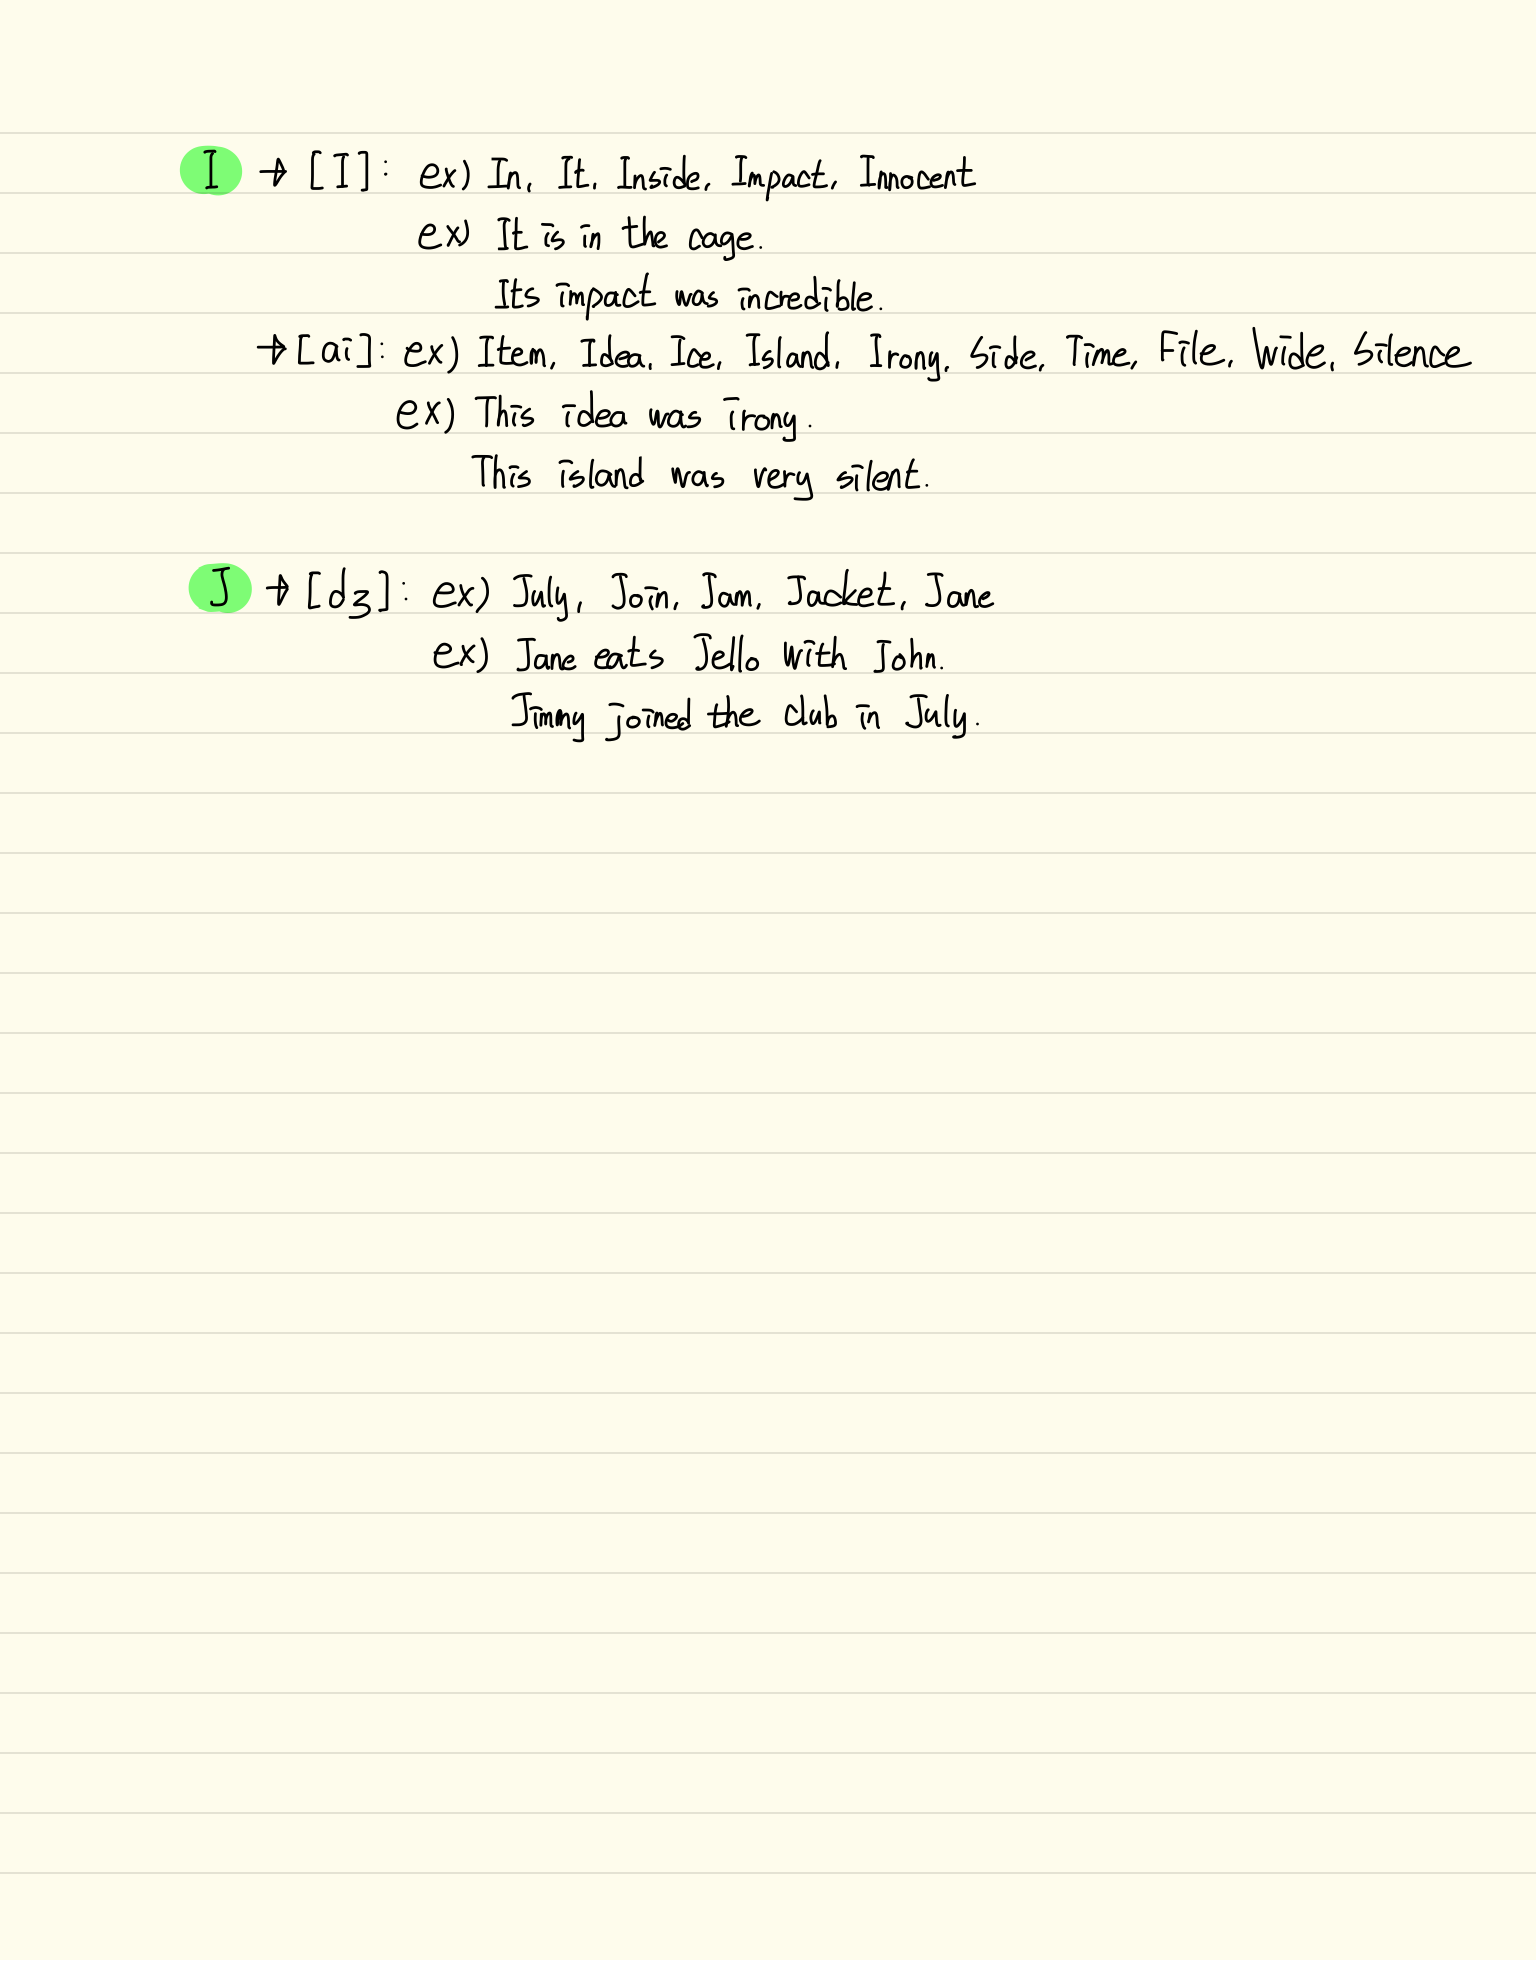
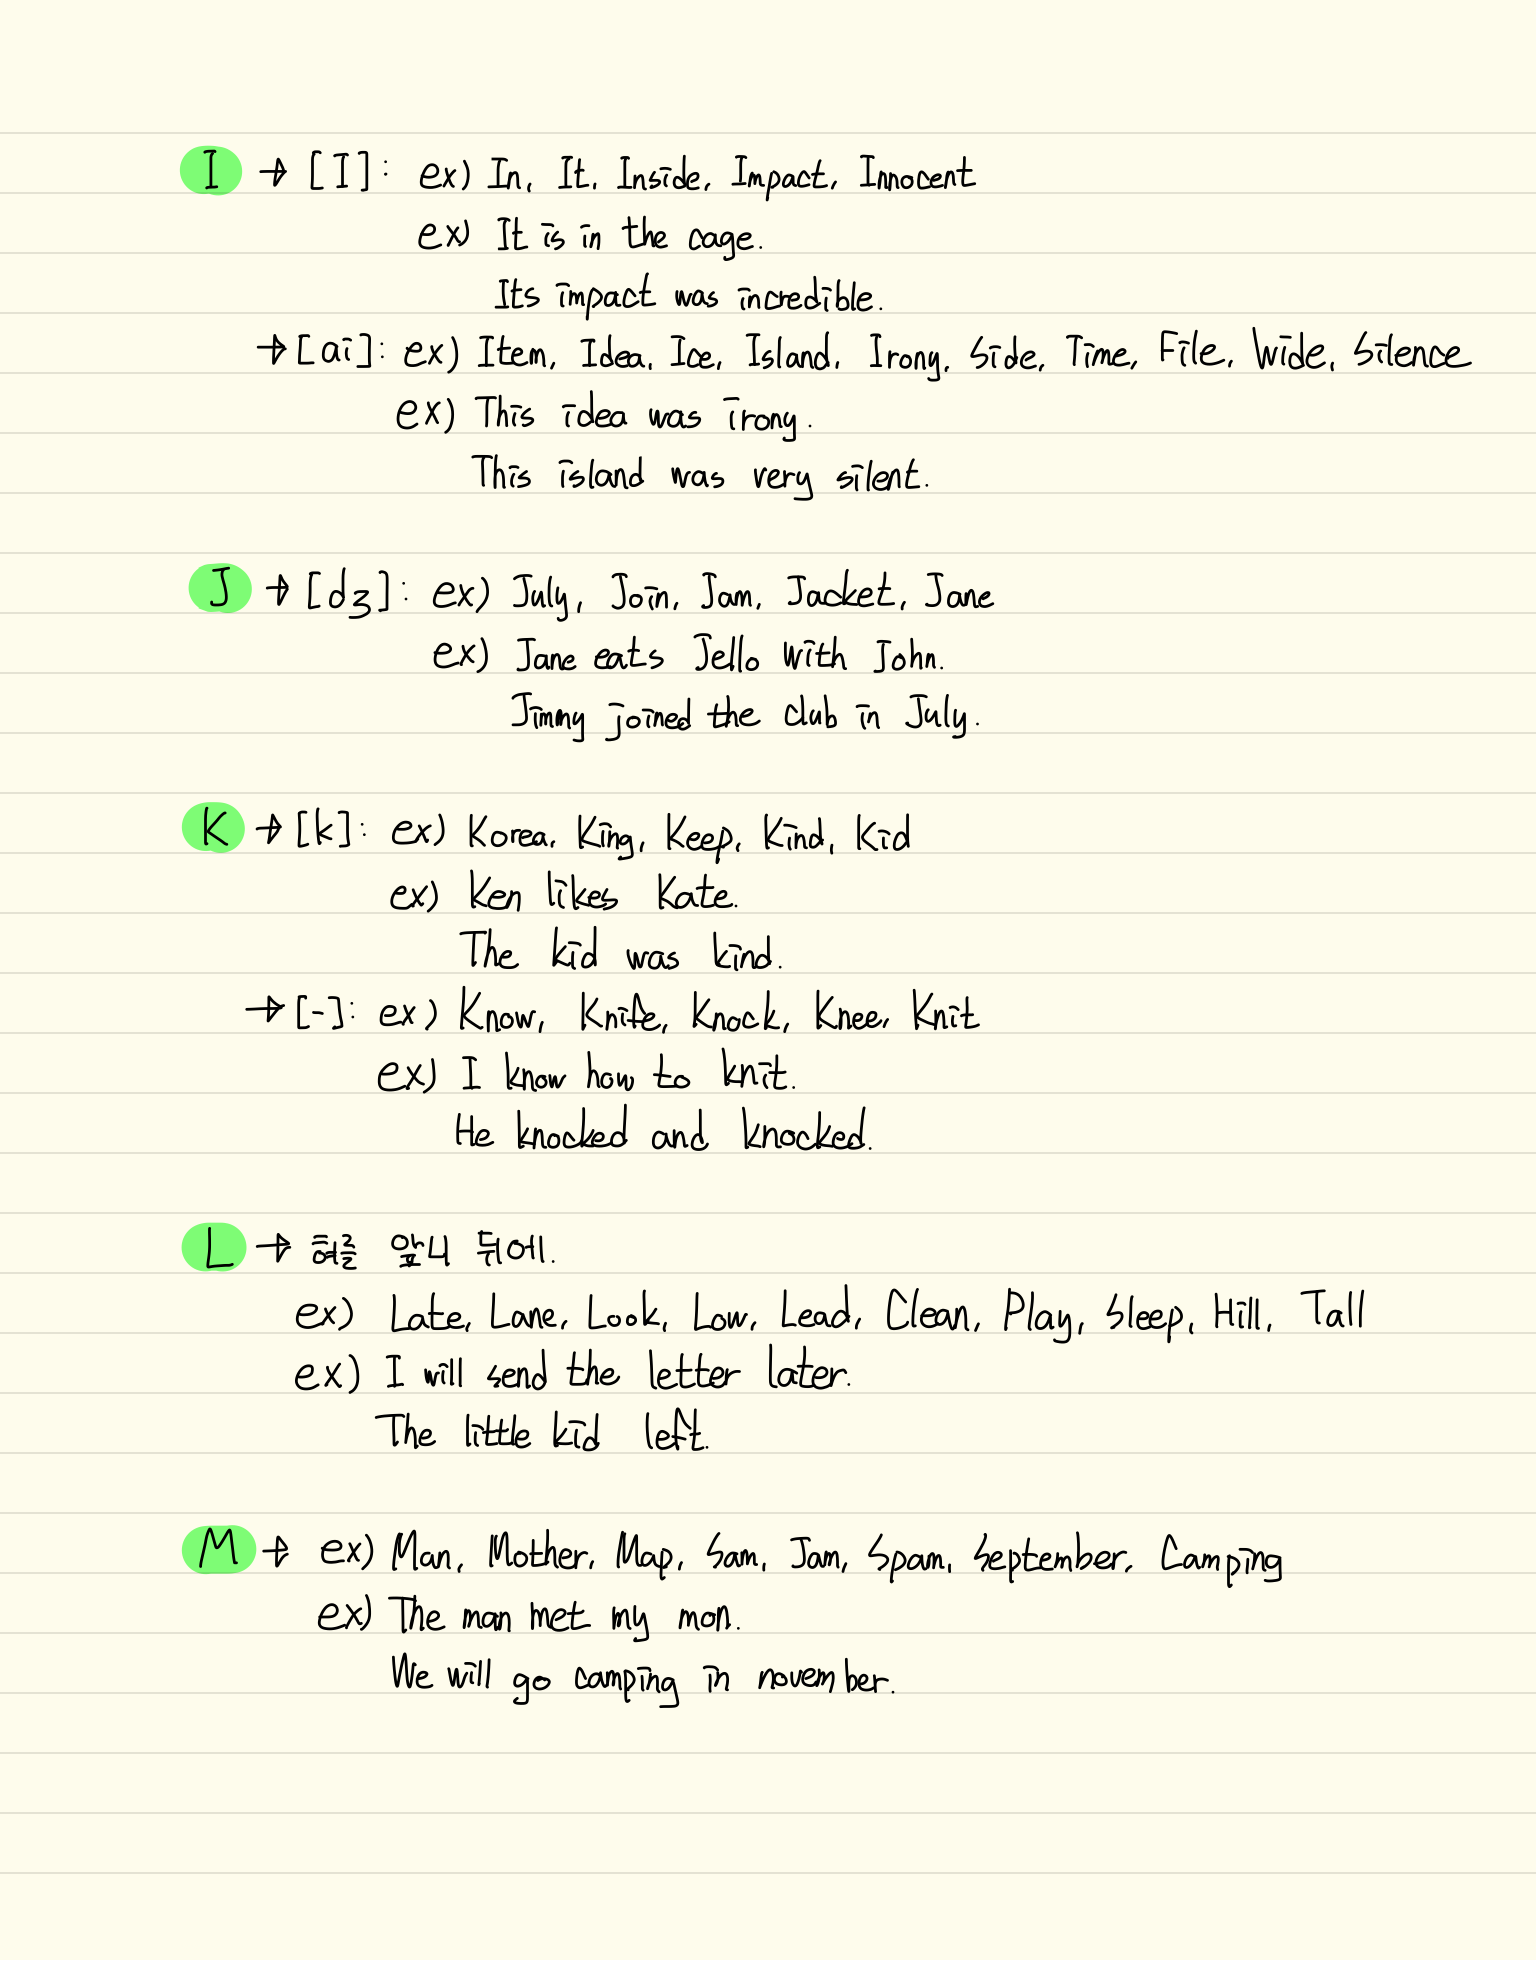
[TOEIC] Pronunciation J~O

diff --git a/TOEIC/TS-Pronunciation.md b/TOEIC/TS-Pronunciation.md
@@ -5,3 +5,5 @@
 ![](TS-Pronunciation_2.png)
 
 ![](TS-Pronunciation_3.png)
+
+![](TS-Pronunciation_4.png)
